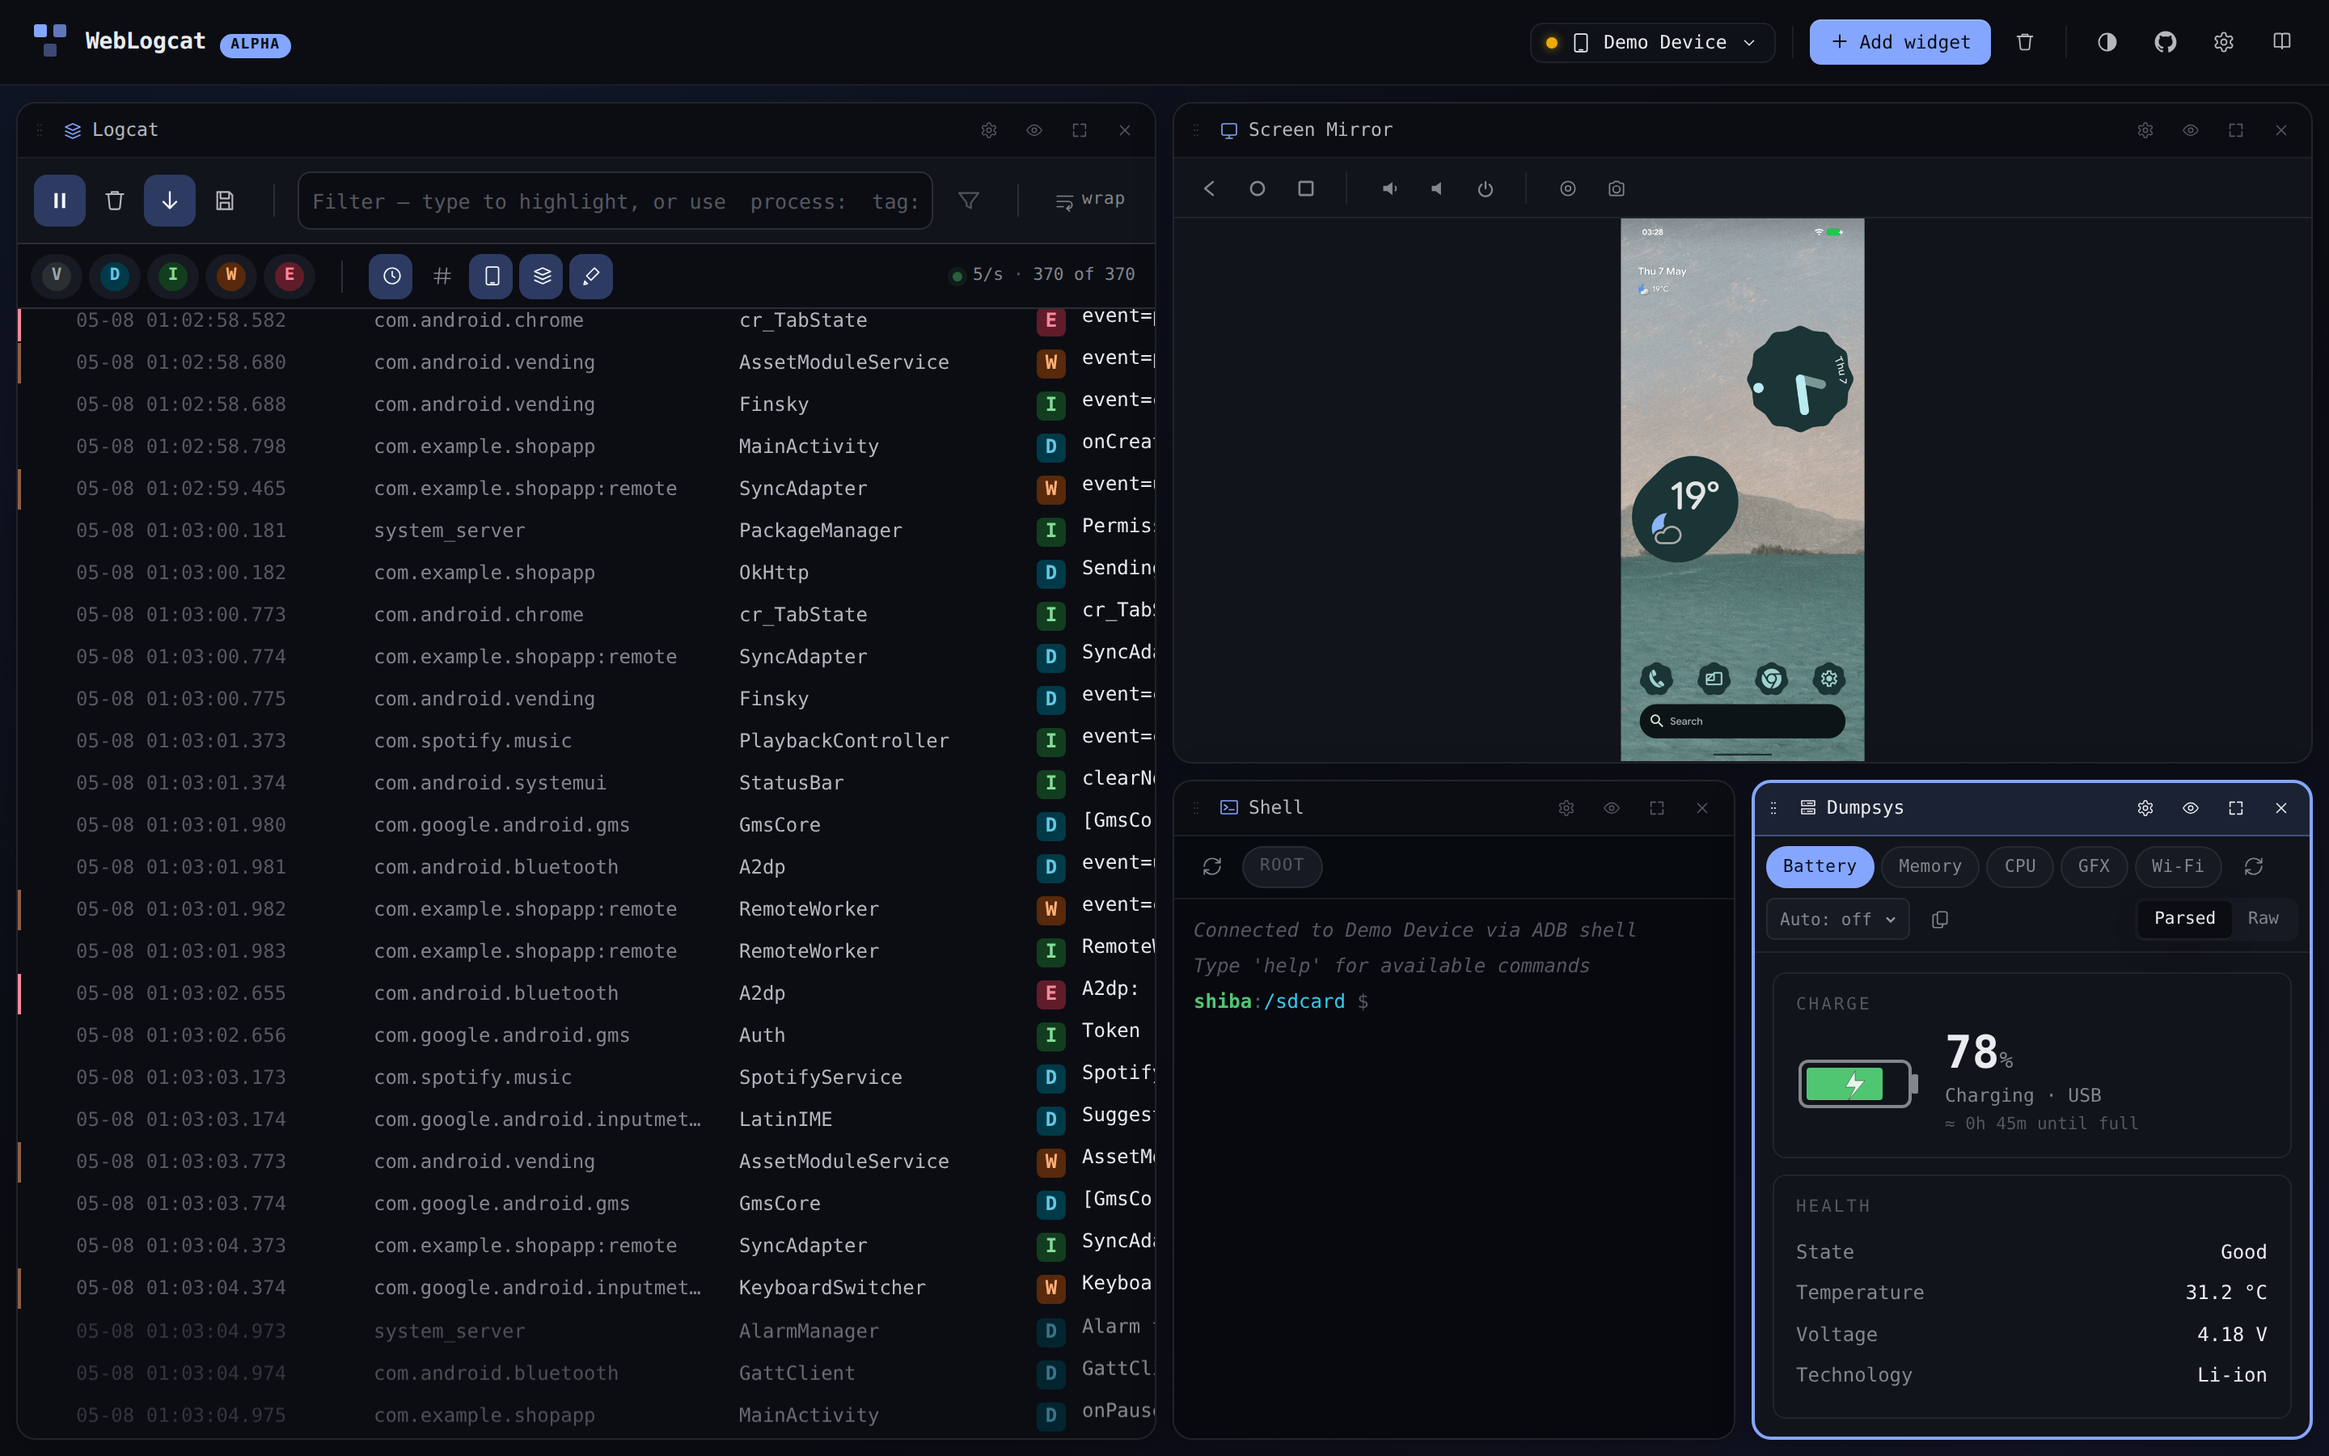
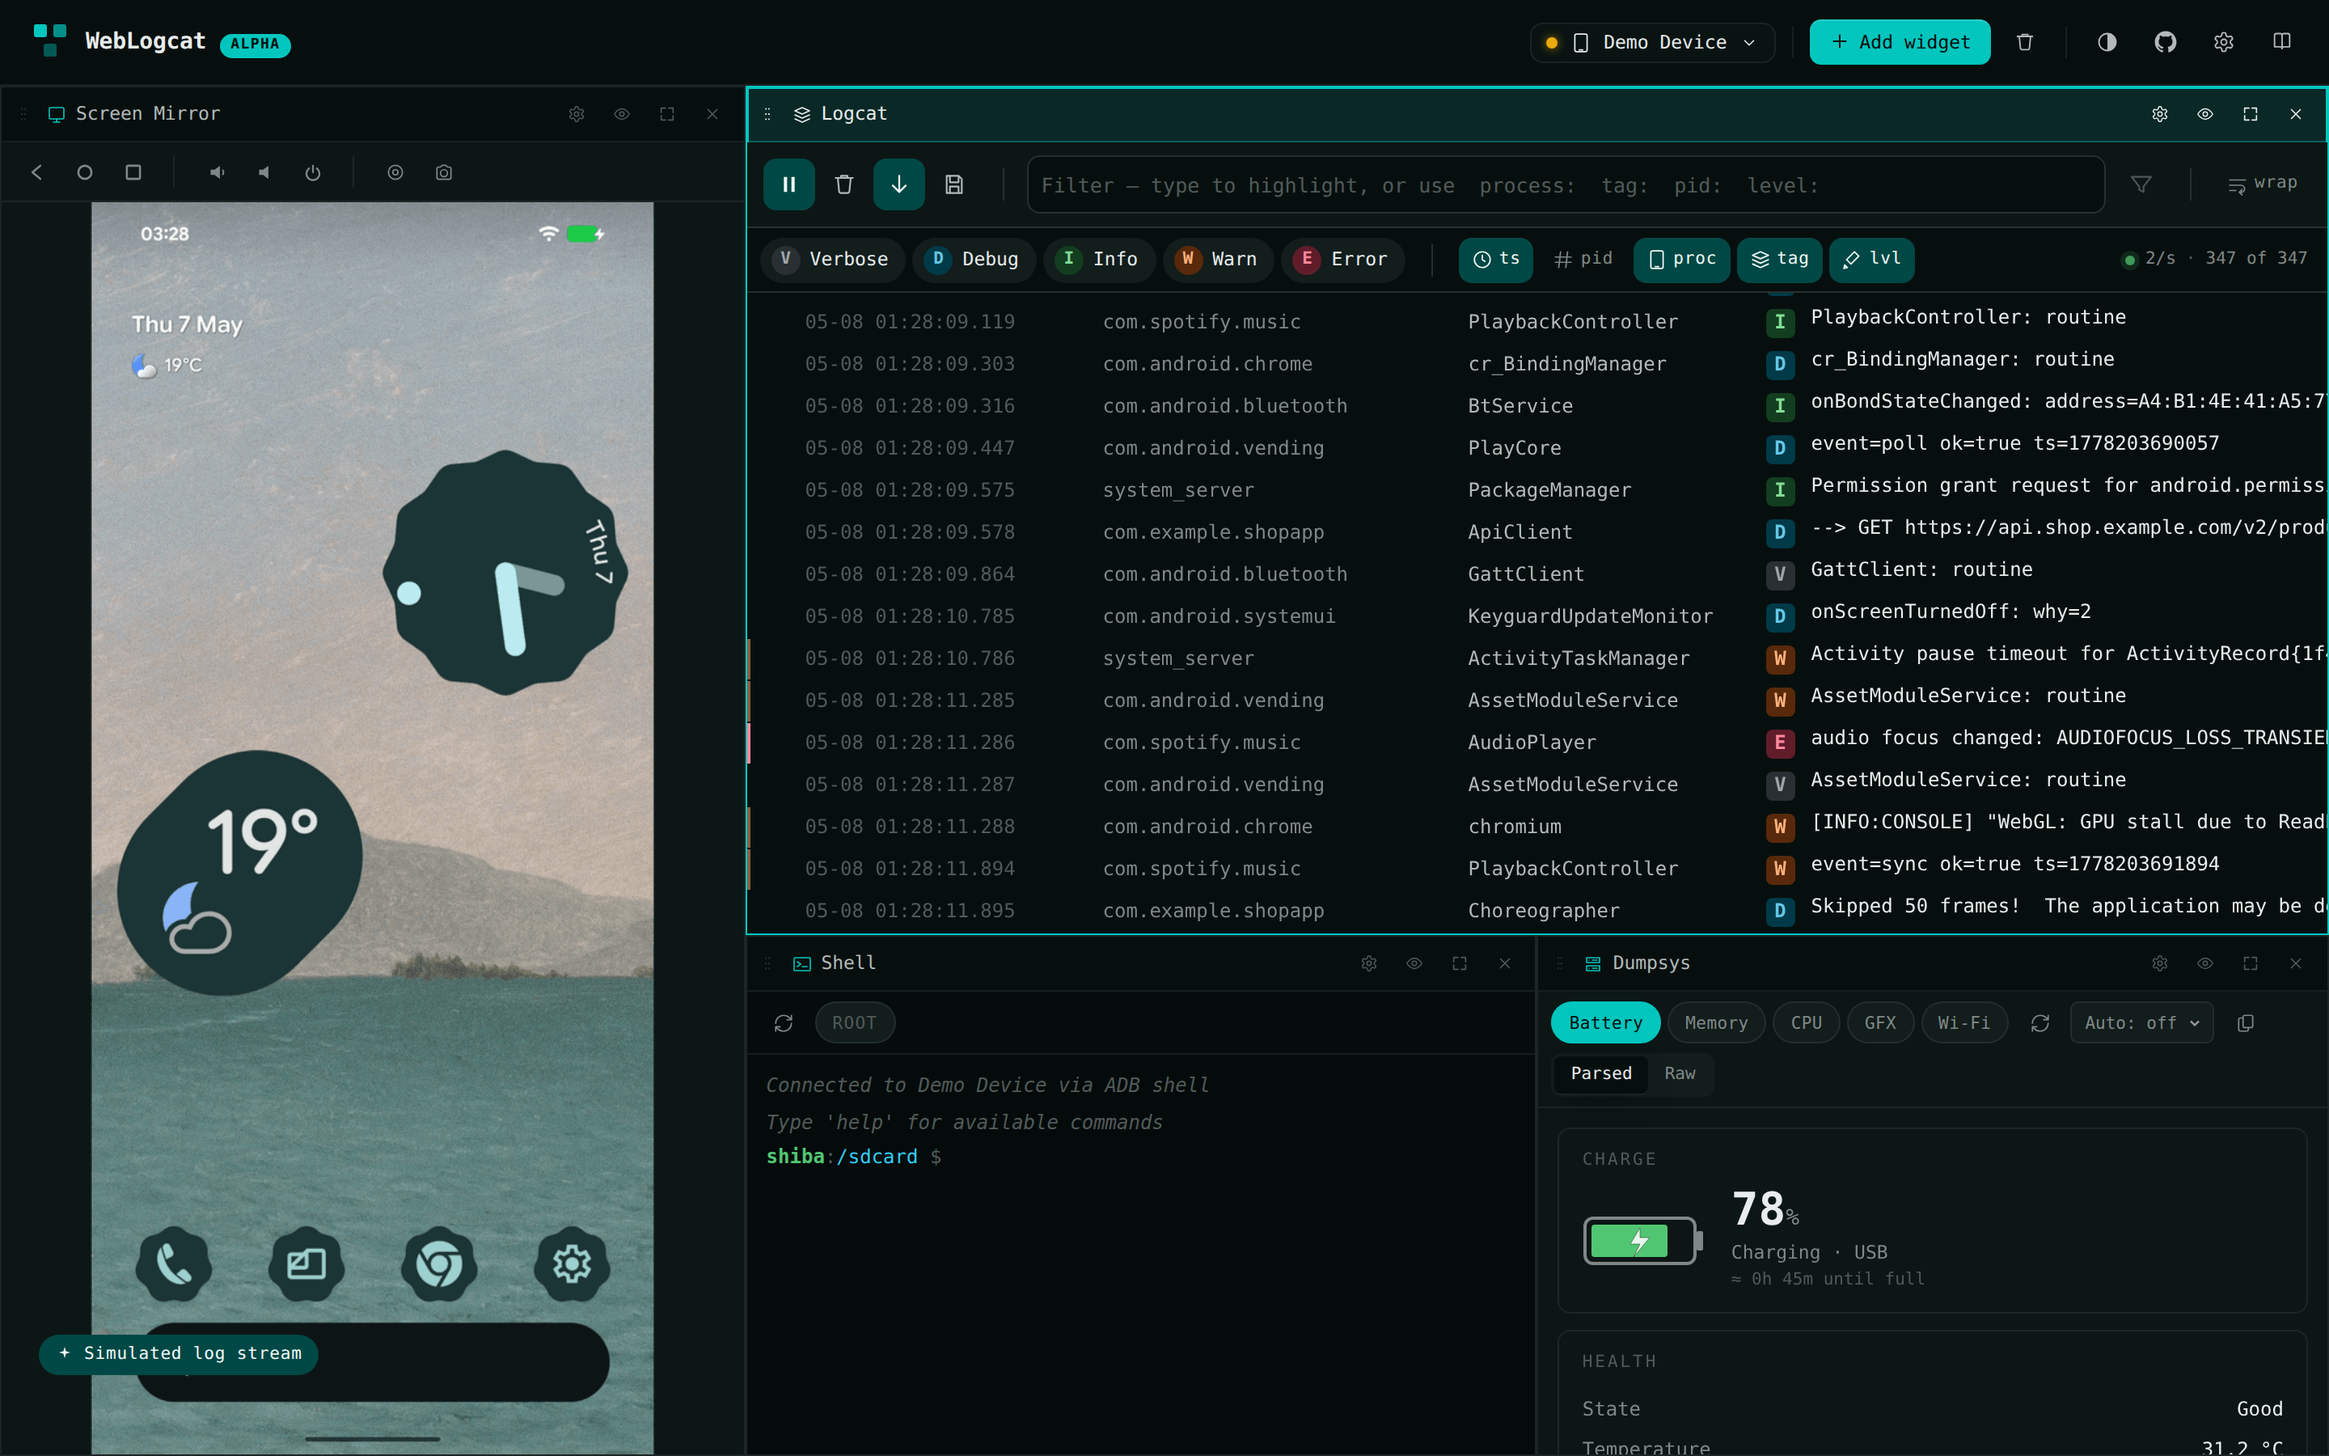
README: trim to a pointer page; refresh hero shot
- README is now title + summary + Open WebLogcat badge + screenshot
  + an "I'd like to…" pointer table (user manual / contributor docs
  / agent directives). Everything else lives in the docs site.
- The hero is a deterministic four-widget composition (Mirror left
  full-height, Logcat top-right, Shell + Dumpsys bottom-right) with
  the teal accent and compact mode. Built by seeding localStorage
  before navigating so the regen is bit-stable.
- docs/bots/screenshots.md documents the hero recipe and the
  one-test refresh command for future agents.

https://claude.ai/code/session_018GfNEcyQKxiSa1n1MY4JEB

diff --git a/scripts/capture-feature-screenshots.spec.ts b/scripts/capture-feature-screenshots.spec.ts
@@ -123,9 +123,89 @@ test.describe('feature screenshots', () => {
         .first(),
     ).toContainText(/charge/i);
     await page.screenshot({ path: out('dashboard-multi'), fullPage: false });
-    // The hero shot is the same composition — write it a second time
-    // to docs/public/screenshot.png so README.md and the VitePress
-    // landing page stay in lockstep with the multi-widget capture.
+  });
+
+  // README hero composition.
+  //
+  // The hero needs a deterministic layout (Mirror left full-height,
+  // Logcat top-right, Shell + Dumpsys bottom-right), the teal accent,
+  // and compact mode — building it via "+ Add widget" clicks would
+  // depend on the dwindle's split-direction heuristic and isn't
+  // bit-stable. Seed localStorage directly so the same composition
+  // lands every regen.
+  //
+  // Unlike the cleaner feature shots, this one *keeps* the
+  // "Simulated log stream" badge visible — readers landing from the
+  // README see the same affordance the live simulator session shows,
+  // which matches the README's "no phone? simulated stream" framing.
+  test('README hero shot', async ({ page }) => {
+    await page.addInitScript(() => {
+      localStorage.clear();
+      // Tweaks: teal accent + compact mode, performance mode on so
+      // tile transitions don't render mid-easing.
+      localStorage.setItem(
+        'weblogcat:tweaks:v1',
+        JSON.stringify({
+          accent: 'teal',
+          compactMode: true,
+          performanceMode: 'on',
+        }),
+      );
+      // Dashboard layout: Mirror left (~32%), then a column split on
+      // the right with Logcat on top (~62%) and Shell|Dumpsys at the
+      // bottom (50/50).
+      localStorage.setItem(
+        'weblogcat-dashboard-v2',
+        JSON.stringify({
+          tiles: {
+            w_mirror: { id: 'w_mirror', kind: 'mirror' },
+            w_logcat: { id: 'w_logcat', kind: 'logcat' },
+            w_shell: { id: 'w_shell', kind: 'shell' },
+            w_dumpsys: { id: 'w_dumpsys', kind: 'dumpsys' },
+          },
+          tree: {
+            type: 'split',
+            dir: 'row',
+            ratio: 0.32,
+            a: { type: 'leaf', id: 'w_mirror' },
+            b: {
+              type: 'split',
+              dir: 'col',
+              ratio: 0.62,
+              a: { type: 'leaf', id: 'w_logcat' },
+              b: {
+                type: 'split',
+                dir: 'row',
+                ratio: 0.5,
+                a: { type: 'leaf', id: 'w_shell' },
+                b: { type: 'leaf', id: 'w_dumpsys' },
+              },
+            },
+          },
+          focusId: 'w_logcat',
+        }),
+      );
+    });
+
+    await page.goto('/');
+    await page.getByRole('button', { name: /fake data/i }).click();
+    // Four tiles, in the configured composition.
+    await expect(page.locator('.tile')).toHaveCount(4);
+    await expect(page.locator('.lc-widget')).toBeVisible();
+    await expect(page.locator('.mr-widget')).toBeVisible();
+    await expect(page.locator('.sh-widget')).toBeVisible();
+    await expect(page.locator('.ds-widget')).toBeVisible();
+    // Wait for the log stream to start so the Logcat tile isn't empty.
+    await expect(page.locator('.row').first()).toBeVisible({ timeout: 10_000 });
+    // Settle Dumpsys' default preset.
+    await expect(
+      page.locator('.tile')
+        .filter({ has: page.locator('.ds-widget') })
+        .locator('.ds-card-head')
+        .first(),
+    ).toContainText(/charge/i);
+    // Wait out the connect-toast (the badge stays — see comment above).
+    await expect(page.locator('.toast')).toHaveCount(0, { timeout: 5_000 });
     await page.screenshot({ path: HERO_PATH, fullPage: false });
   });
 

diff --git a/README.md b/README.md
@@ -1,148 +1,23 @@
-# web-logcat
+# WebLogcat
 
 Browser-based Android device inspector — Logcat, Shell, Dumpsys, Files,
-and Screen Mirror, all over WebUSB. Plug a phone into your laptop and
-get a draggable dashboard of widgets in the browser, no `adb` install
-and no Android Studio.
+and Screen Mirror, all over WebUSB. Plug in a phone and get a draggable
+dashboard, no `adb` install required.
 
-**▶ Live at <https://gabrielhuff.github.io/web-logcat/>**
-&nbsp;·&nbsp; **📚 Docs at <https://gabrielhuff.github.io/web-logcat/docs/>**
+<p align="center">
+  <a href="https://gabrielhuff.github.io/web-logcat/">
+    <img alt="Open WebLogcat" src="https://img.shields.io/badge/%E2%96%B6%20Open%20WebLogcat-2c8a83?style=for-the-badge&logoColor=white" />
+  </a>
+</p>
 
-![web-logcat dashboard with the default Mirror + Logcat + Shell + Dumpsys layout against the simulated stream](docs/public/screenshot.png)
+![WebLogcat dashboard — Mirror, Logcat, Shell, and Dumpsys tiles against the simulated stream](docs/public/screenshot.png)
 
-## Use it
+## I'd like to…
 
-1. Open the [live URL](https://gabrielhuff.github.io/web-logcat/) in
-   Chrome, Edge, or another Chromium-based browser. (WebUSB isn't
-   available in Firefox or Safari.)
-2. Plug in an Android device with USB debugging enabled.
-3. Click **Connect a device** and accept the on-device authorisation
-   prompt the first time.
-4. The dashboard mounts with a single Logcat tile filling the viewport.
-   Use **+ Add widget** in the topbar to grow the layout — Shell,
-   Dumpsys, Files, Screen Mirror, or another Logcat. Each new widget
-   splits the focused tile.
-
-The browser remembers the trust the same way it remembers any WebUSB
-permission — the second connect from the same browser+device pair is
-silent.
-
-> Don't have a phone handy? Click **fake data** instead. The dashboard
-> runs against a synthetic feed so you can poke around every widget,
-> drag tiles, and try the keyboard shortcuts without touching real
-> hardware.
-
-## Widgets
-
-| Widget | What it does |
+| | |
 | --- | --- |
-| **Logcat** | Live system log stream (V/D/I/W/E levels, filter chips, search, heatmap, pinned rows). Multiple Logcat tiles can co-exist with independent filter state. |
-| **Shell** | Interactive ADB shell — one channel per widget instance. ↑/↓ history, Ctrl+L clears. |
-| **Dumpsys** | One-click presets (Battery, Memory, CPU, GFX, Wi-Fi) with parsed cards or raw output. |
-| **Files** | Two-column file browser over the ADB sync protocol. Drag-out to pull, drag-in to push, with progress for files ≥1 MB. |
-| **Screen Mirror** | scrcpy-style live screen with WebCodecs H.264 decode, tap injection, hardware buttons, screenshot, and MP4 recording. Capped at one instance. |
-
-Drag the bottom-right grip on any tile to resize, the header to move,
-and use the eye icon to hide a widget's toolbar for more content area.
-The **Reset layout** button in the topbar restores the default
-arrangement.
-
-### Logcat widget
-
-The five widgets each have their own UI conventions; Logcat carries
-over most of v1's filter / search / pin / crash-collapse / heatmap
-behaviour:
-
-#### Filter chips
-
-Focus the filter bar (or press `/`) and the autocomplete shows all five
-filter types as discoverable starters. Each chip narrows the visible
-rows and highlights matches inline.
-
-| Prefix | Matches | Example |
-| --- | --- | --- |
-| `process:` | Package name (substring) | `process:com.example` |
-| `tag:` | Logcat tag (substring) | `tag:ActivityManager` |
-| `pid:` | Process or thread id (exact) | `pid:1234` |
-| `level:` | Log level letter | `level:E` |
-| _(no prefix)_ | Search across message + tag + package | `OutOfMemoryError` |
-
-`Tab` accepts the highlighted suggestion, `Enter` commits the chip,
-`Backspace` on an empty input removes the previous chip. Adding the
-first chip auto-enables "show only matches"; clear all chips to see
-everything again.
-
-#### Keyboard shortcuts
-
-Shortcuts only fire while the Logcat widget owns focus, so two Logcat
-tiles never toggle each other.
-
-| Key | Action |
-| --- | --- |
-| `Space` | Pause / resume the live stream |
-| `/` | Focus the filter input |
-| `⌘F` / `Ctrl+F` | Open the search overlay |
-| `⌘K` / `Ctrl+K` | Clear the log buffer |
-| `?` | Open the in-app shortcut reference |
-| `Esc` | Close any open overlay |
-
-Press `?` in-app for the always-current list.
-
-#### Other Logcat conventions
-
-- **Levels.** Click a level pill to toggle it; double-click to solo
-  (turns off all the others). Disabled levels show with a strike-through.
-- **Pin a row.** Hover and click the pin icon — pinned rows stay
-  sticky at the top until cleared.
-- **Crash collapse.** Stack traces fold under their first line by
-  default. Click "Show stack trace" to expand.
-- **Heatmap gutter.** A 60-cell bar on the left of the log area; click
-  any second to scroll the log to that point in time.
-- **Wrap mode.** Off by default — long messages scroll horizontally.
-  Flip the `wrap` toggle to wrap them within the row instead.
-- **Filters persist.** Chips are remembered per-device-serial **and per
-  tile**, so two Logcat tiles on the same phone keep independent
-  setups across reloads.
-
-## Compatibility
-
-- **Browser:** Chromium-based only. Chrome, Edge, Brave, Opera all work.
-  Firefox and Safari don't ship WebUSB. Screen Mirror additionally needs
-  WebCodecs (Chromium 94+).
-- **Transport:** HTTPS or `localhost`. Serving from any other origin
-  blocks the WebUSB device chooser.
-- **Device:** Android with USB debugging on, modern enough to ship the
-  ADB protocol Google has used for ~a decade. Shell, Dumpsys, and Files
-  rely on the shell-protocol v2 spawn (`adb` v2.x); older devices fall
-  back to an inline notice. Mirror requires a device able to run
-  `scrcpy-server-v2.7.jar`, which the app pushes for you.
-
-## Repository
-
-The published [docs site](https://gabrielhuff.github.io/web-logcat/docs/)
-is the source of truth for everything below. This README just points at
-the relevant section.
-
-| Section | Use it for |
-| --- | --- |
-| [Features](https://gabrielhuff.github.io/web-logcat/docs/features/) (`docs/features/`) | Per-widget user docs — usage, shortcuts, screenshots |
-| [Contributing](https://gabrielhuff.github.io/web-logcat/docs/devs/) (`docs/devs/`) | Architecture, deployment, release plan, contributing guide, docs conventions |
-| [For agents](https://gabrielhuff.github.io/web-logcat/docs/bots/) (`docs/bots/`) | Widget contract, doc-sync rules, test-sync rules |
-| [`CLAUDE.md`](CLAUDE.md) | Implicit prompt for AI agents continuing the work — points into `docs/bots/` |
-
-Stack at a glance: Vite + React + TypeScript, CSS custom properties
-with `oklch()`, [`@yume-chan/adb`](https://github.com/yume-chan/ya-webadb)
-for the WebUSB transport (with `@yume-chan/scrcpy` +
-`@yume-chan/scrcpy-decoder-webcodecs` + `mp4-muxer` for Mirror),
-[`@tanstack/react-virtual`](https://tanstack.com/virtual) for the log
-list, GitHub Pages for hosting.
-
-Bundle is **~67 KB gzip initial** (index + Logcat) plus per-widget
-chunks fetched on first add (Phase 10 lazy-loading): Shell ~3.5 KB
-gzip, Mirror ~5 KB, Files ~7 KB, Dumpsys ~9 KB, with the scrcpy decoder
-+ mp4-muxer (~17 KB combined) only loaded once a Mirror tile mounts.
-The ADB transport (~14 KB) and the simulator (~4 KB) remain lazy too.
-
-## License
+| 📖 **Use the app** | Read the [user manual](https://gabrielhuff.github.io/web-logcat/docs/features/). |
+| 🛠 **Contribute** | See the [contributor docs](https://gabrielhuff.github.io/web-logcat/docs/devs/). |
+| 🤖 **I am a bot** | Follow the [agent directives](https://gabrielhuff.github.io/web-logcat/docs/bots/). |
 
 MIT — see [LICENSE](LICENSE).

diff --git a/docs/bots/screenshots.md b/docs/bots/screenshots.md
@@ -63,19 +63,41 @@ can't tell you whether the composition is aesthetically right.
 
 ## Refreshing only the README hero
 
-The hero comes out of the `dashboard multi-widget layout (hero shot)`
-test, which writes both `dashboard-multi.png` and `screenshot.png`.
-Re-run only that one to refresh the README without churning the other
-PNGs:
+The hero comes out of a dedicated `README hero shot` capture that
+seeds `localStorage` with a deterministic four-widget composition
+before navigating, so the shot is bit-stable across regens.
+
+The seeded state:
+
+- **Tweaks** — `accent: 'teal'`, `compactMode: true`,
+  `performanceMode: 'on'`.
+- **Layout** — Mirror left (≈32% width), then a column split on the
+  right with Logcat on top (≈62% height) and Shell | Dumpsys at the
+  bottom (50/50).
+- **Simulator hints** — unlike the cleaner feature shots, the hero
+  *keeps* the "Simulated log stream" badge. Readers landing from the
+  README see the same affordance the live simulator session shows.
+
+Re-run only the hero without churning the other PNGs:
 
 ```bash
 CHROMIUM_PATH=... npx playwright test \
   --config=playwright.screenshots.config.ts \
-  -g 'hero shot'
+  -g 'README hero'
 ```
 
-If the user asks specifically for *the README screenshot*, that's
-this one.
+It writes to `docs/public/screenshot.png`, which the README and the
+docs landing both reference. If the user asks specifically for *the
+README screenshot*, that's this one.
+
+To change the composition (different widgets, different ratios, a
+different accent), edit the `localStorage.setItem` block in
+`scripts/capture-feature-screenshots.spec.ts` under the
+`README hero shot` test. Layout payload shape lives in
+[`src/lib/layout.ts`](https://github.com/gabrielhuff/web-logcat/blob/main/src/lib/layout.ts)
+(`weblogcat-dashboard-v2`); tweak shape lives in
+[`src/lib/tweaks.ts`](https://github.com/gabrielhuff/web-logcat/blob/main/src/lib/tweaks.ts)
+(`weblogcat:tweaks:v1`).
 
 ## Adding a new capture
 
